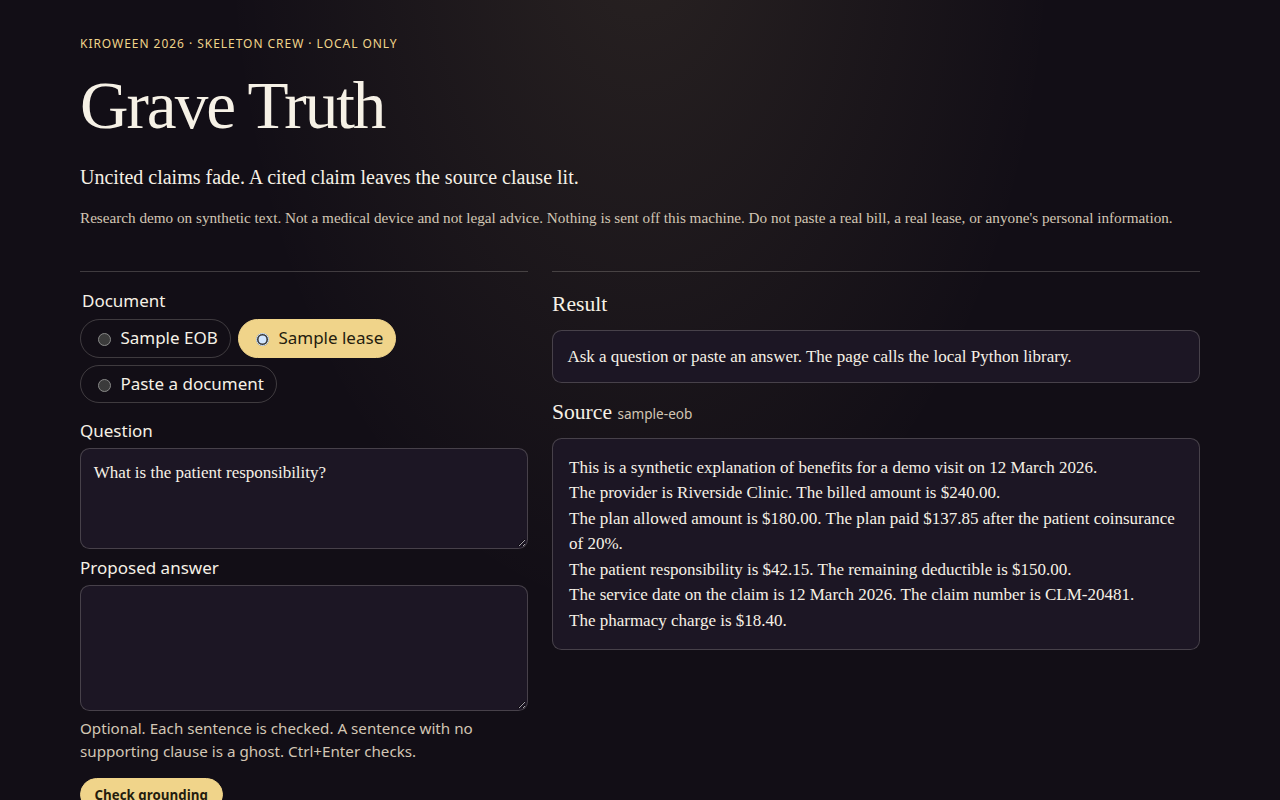
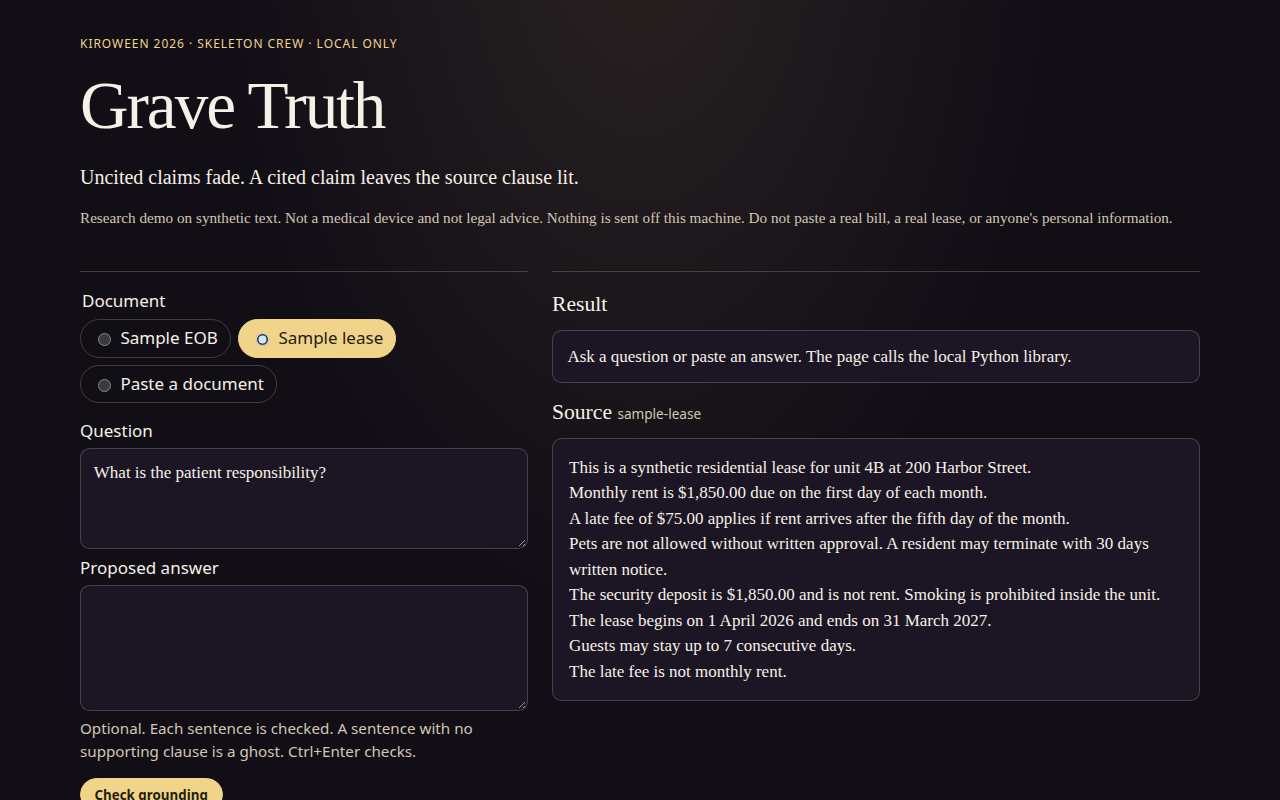
Record the validation run against the harness commit
The observed report now names d18640a, the commit that added the
harness. Counts are unchanged: 53 pytest, 90/90 gold, 10/10 scripted
journeys, citation 7/7, refusal 3/3, one planted failure caught, and
no model call.

Changed region(s): [[0.4375, 0.5625, 0.9062, 0.8438], [0.5312, 0.5, 0.5625, 0.5312]]

diff --git a/validation/reports/OBSERVED.md b/validation/reports/OBSERVED.md
@@ -1,7 +1,7 @@
 # Observed validation run
 
-- Date: 2026-11-08T17:42:12+00:00
-- Commit: `dca54ec67201dfbb820b35a638ad1566a46f4e28`
+- Date: 2026-11-08T17:43:18+00:00
+- Commit: `d18640a339e01c2f435380c8fca24e02bdd51b8b`
 - Mode: local
 - Observed cost: $0.0 (model API calls: 0)
 - App config: `grave-truth`
@@ -38,11 +38,11 @@ Scripted profiles are deterministic browser steps. They are not LLM synthetic us
 ## Lighthouse laboratory diagnostic
 
 - Lighthouse 13.6.0, form factor mobile, throttling simulate, mobile emulation True
-- first-contentful-paint: 902.1451
-- largest-contentful-paint: 902.1451
+- first-contentful-paint: 901.8348000000001
+- largest-contentful-paint: 901.8348000000001
 - total-blocking-time: 0
 - cumulative-layout-shift: 0
-- speed-index: 902.1451
+- speed-index: 901.8348000000001
 - lab category performance: 1
 - lab category best-practices: 0.96
 - Laboratory figures from this machine. Not a field measurement, not a harness pass/fail gate, and not a quality score for the product.
